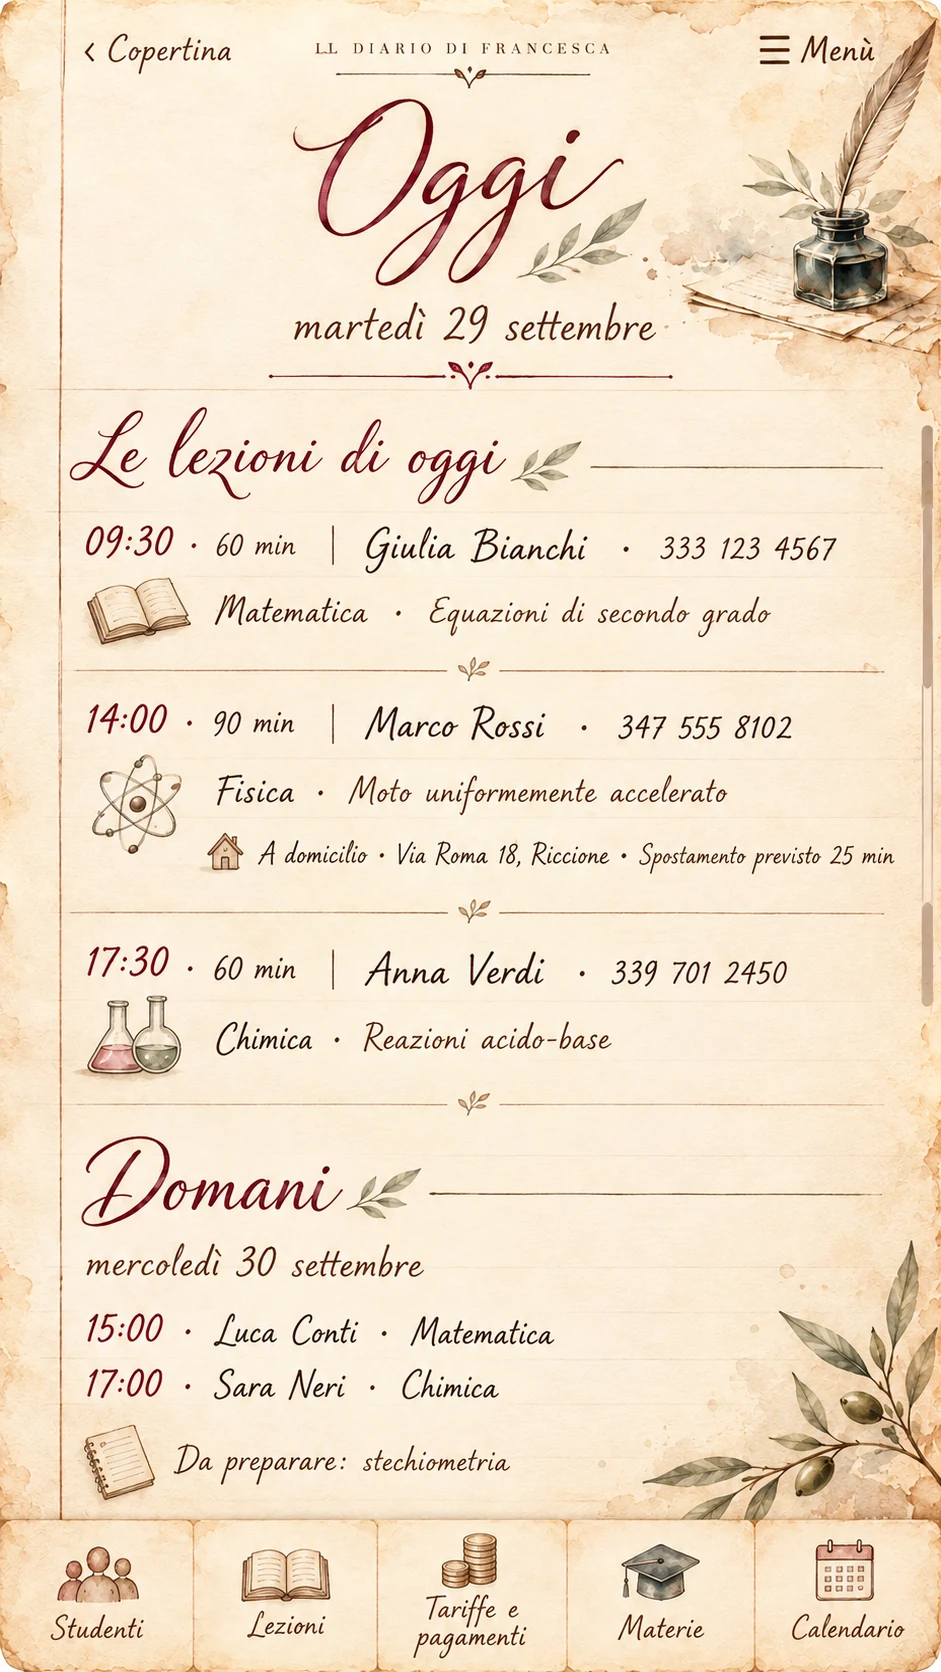
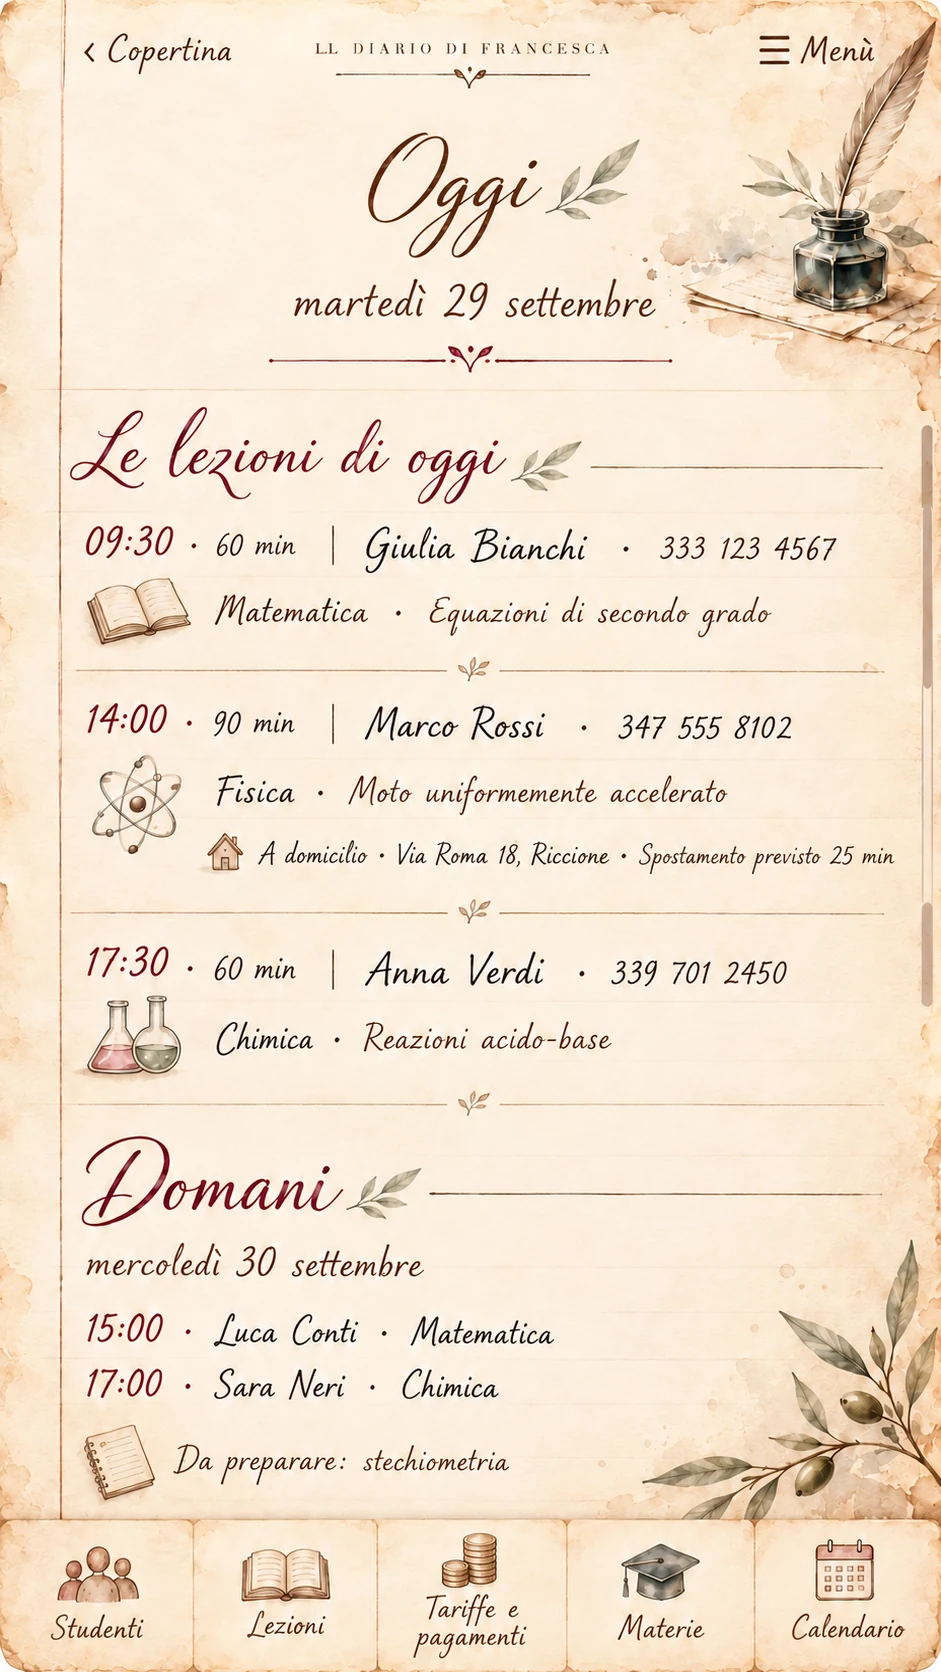
Allinea titoli e icone acquerellate di Oggi al riferimento

diff --git a/app/oggi/page.tsx b/app/oggi/page.tsx
@@ -4,6 +4,14 @@ import Image from "next/image";
 import Link from "next/link";
 import { useEffect, useState } from "react";
 import background from "../assets/today-diary-watercolor.webp";
+import todayTitle from "../assets/today-title.webp";
+import lessonsTitle from "../assets/today-lessons-title.webp";
+import tomorrowTitle from "../assets/tomorrow-title.webp";
+import studentsIcon from "../assets/today-icon-students.webp";
+import lessonsIcon from "../assets/today-icon-lessons.webp";
+import paymentsIcon from "../assets/today-icon-payments.webp";
+import subjectsIcon from "../assets/today-icon-subjects.webp";
+import calendarIcon from "../assets/today-icon-calendar.webp";
 import { addDays, toLocalDate } from "../data/calendario/calendar-dates";
 import { selectOccurrencesInRange } from "../data/calendario/calendar-selectors";
 import { loadCalendarAppointments, loadCalendarSeries } from "../data/calendario/calendar-storage";
@@ -19,16 +27,7 @@ const menu = [
   { href: "/calendario", label: "Calendario", icon: "calendar" },
 ];
 
-function DiaryIcon({ name }: { name: string }) {
-  const common = { fill: "none", stroke: "currentColor", strokeWidth: 1.5, strokeLinecap: "round" as const, strokeLinejoin: "round" as const };
-  return <svg aria-hidden="true" viewBox="0 0 48 42" className="h-7 w-8 text-[#856347]" {...common}>
-    {name === "students" && <><circle cx="24" cy="12" r="5" /><path d="M14 34c0-8 4-12 10-12s10 4 10 12M10 18a4 4 0 1 1 3-7M7 32c0-6 2-10 7-11M38 18a4 4 0 1 0-3-7M41 32c0-6-2-10-7-11" /></>}
-    {name === "lessons" && <><path d="M24 36c-6-4-12-4-19-3V8c7-1 13-1 19 3 6-4 12-4 19-3v25c-7-1-13-1-19 3ZM24 11v25M9 15c4-.5 8 0 11 2M28 17c3-2 7-2.5 11-2M9 22c4-.5 8 0 11 2M28 24c3-2 7-2.5 11-2" /></>}
-    {name === "payments" && <><ellipse cx="18" cy="11" rx="10" ry="4" /><path d="M8 11v10c0 2 4 4 10 4 2 0 4-.2 6-1M8 16c3 3 11 4 16 2M24 20v11c0 3 4 5 10 5s10-2 10-5V20" /><ellipse cx="34" cy="20" rx="10" ry="4" /><path d="M24 25c4 3 16 3 20 0" /></>}
-    {name === "subjects" && <><path d="m4 18 20-10 20 10-20 10L4 18ZM13 24v9c8 5 14 5 22 0v-9M43 19v13" /><circle cx="43" cy="34" r="2" /></>}
-    {name === "calendar" && <><rect x="6" y="9" width="36" height="29" rx="2" /><path d="M6 18h36M15 5v8M33 5v8M14 25h5M25 25h5M14 32h5M25 32h5" /></>}
-  </svg>;
-}
+const icons = { students: studentsIcon, lessons: lessonsIcon, payments: paymentsIcon, subjects: subjectsIcon, calendar: calendarIcon };
 
 function dateTitle(date: string) {
   return new Intl.DateTimeFormat("it-IT", { weekday: "long", day: "numeric", month: "long" }).format(new Date(date + "T12:00:00"));
@@ -79,7 +78,8 @@ export default function TodayPage() {
             <Link href="/menu" className="rounded-lg px-2 py-2 text-[#702f3e]">☰ Menù</Link>
           </div>
           <p className="mt-2 text-center font-entry-elegant text-xs tracking-[.12em] text-[#8a6546]">IL DIARIO DI FRANCESCA</p>
-          <h1 className="mt-2 text-center font-handwritten text-[clamp(43px,12vw,58px)] leading-tight text-[#71313b]">Oggi</h1>
+          <h1 className="sr-only">Oggi</h1>
+          <Image src={todayTitle} alt="" priority unoptimized className="mx-auto mt-1 h-auto w-[clamp(155px,42vw,190px)]" />
           <p className="text-center font-entry-elegant text-[clamp(16px,4.4vw,20px)] capitalize">{today ? dateTitle(today) : "Il diario della giornata"}</p>
           <div className="mx-auto mt-3 flex w-[75%] items-center gap-2 text-[#9b7359]" aria-hidden="true"><span className="h-px flex-1 bg-current/65" /><span className="text-xs">✦</span><span className="h-px flex-1 bg-current/65" /></div>
         </header>
@@ -87,7 +87,7 @@ export default function TodayPage() {
         <div className="min-h-0 flex-1 overflow-y-auto overscroll-contain pb-5 [scrollbar-color:#ad9471_transparent] [scrollbar-width:thin]" aria-label="Diario di oggi e domani" tabIndex={0}>
         <section aria-labelledby="today-lessons" className="mt-5">
           <div className="flex items-center justify-between gap-2">
-            <h2 id="today-lessons" className="font-entry-elegant text-[clamp(22px,6vw,27px)] text-[#71313b]">Le lezioni di oggi</h2>
+            <h2 id="today-lessons" className="min-w-0"><span className="sr-only">Le lezioni di oggi</span><Image src={lessonsTitle} alt="" unoptimized className="h-auto w-[clamp(205px,57vw,250px)]" /></h2>
             <Link href={today ? "/calendario/giorno?data=" + today : "/calendario/giorno"} className="font-entry-elegant text-sm underline underline-offset-4">Apri agenda</Link>
           </div>
           {today && todayLessons.length === 0 && <p className="py-8 font-entry-elegant text-lg text-[#765b46]">Oggi non ci sono lezioni in programma.</p>}
@@ -119,7 +119,7 @@ export default function TodayPage() {
         </section>
 
         <section aria-labelledby="tomorrow-lessons" className="mt-8 border-t border-[#a88965]/50 pt-5">
-          <h2 id="tomorrow-lessons" className="font-handwritten text-[clamp(30px,8vw,38px)] text-[#71313b]">Domani</h2>
+          <h2 id="tomorrow-lessons"><span className="sr-only">Domani</span><Image src={tomorrowTitle} alt="" unoptimized className="h-auto w-[clamp(140px,42vw,185px)]" /></h2>
           <p className="font-entry-elegant text-sm capitalize text-[#82674e]">{tomorrow ? dateTitle(tomorrow) : ""}</p>
           {tomorrow && tomorrowLessons.length === 0 && <p className="mt-3 font-entry-elegant text-base">Nessuna lezione prevista per domani.</p>}
           <ul className="mt-3 space-y-2 font-entry-elegant">
@@ -131,12 +131,12 @@ export default function TodayPage() {
           {tomorrow && <Link href={"/calendario/giorno?data=" + tomorrow} className="mt-3 inline-block text-sm text-[#71313b] underline underline-offset-4">Agenda di domani</Link>}
         </section>
 
-        </div>
-        <nav aria-label="Sezioni principali" className="shrink-0 border-t border-[#a88965]/60 bg-[#fbf1de]/95 py-1.5">
-          <div className="grid grid-cols-5 divide-x divide-[#ac9272]/45">
-            {menu.map((item) => <Link key={item.href} href={item.href} className="flex min-h-[67px] flex-col items-center justify-center gap-0.5 px-0.5 text-center font-entry-elegant text-[clamp(9px,2.5vw,12px)] leading-tight text-[#623b2e] focus-visible:outline-2 focus-visible:outline-[#71313b]"><DiaryIcon name={item.icon} />{item.label}</Link>)}
+        <nav aria-label="Sezioni principali" className="mt-8 pb-3">
+          <div className="grid grid-cols-5 gap-1">
+            {menu.map((item) => <Link key={item.href} href={item.href} className="flex min-h-[82px] flex-col items-center justify-center gap-1 px-0.5 text-center font-entry-elegant text-[clamp(11px,3vw,15px)] leading-tight text-[#623b2e] focus-visible:outline-2 focus-visible:outline-[#71313b]"><Image src={icons[item.icon as keyof typeof icons]} alt="" unoptimized className="h-10 w-11 object-contain" />{item.label}</Link>)}
           </div>
         </nav>
+        </div>
       </div>
     </div>
   </main>;

diff --git a/docs/design/oggi-implementazione.md b/docs/design/oggi-implementazione.md
@@ -1,14 +1,14 @@
 # Oggi — riferimento e criteri di implementazione
 
-Riferimento visivo scelto da Mauro: [oggi-riferimento-approvato.webp](./oggi-riferimento-approvato.webp).
+Riferimento visivo confermato da Mauro il 29 settembre: [oggi-riferimento-approvato.webp](./oggi-riferimento-approvato.webp). La grafia di «Oggi», «Le lezioni di oggi» e «Domani» e i cinque simboli illustrati sono parte della scelta.
 I nomi, gli orari e gli indirizzi nell'immagine sono esempi. La pagina di produzione usa solo dati del registro.
 
 ## Struttura
 
 - Dopo «Entra nel registro» si apre `/oggi`; il Menù resta raggiungibile in alto.
-- Titolo «Oggi» calligrafico, data e comandi in una testata fissa. Conservare la grafia della prima anteprima, con lo stesso equilibrio della famiglia di pagine dell'app.
+- Titolo «Oggi» calligrafico, data e comandi in una testata fissa. I tre titoli decorativi sono risorse trasparenti separate; data, contenuti e comandi restano HTML dinamico e accessibile.
 - Sotto la testata scorre **un unico foglio**: lezioni di oggi, poi «Domani» e le sue lezioni. «Domani» non è ancorato allo schermo e si sposta verso il basso se oggi ci sono più voci.
-- In basso restano accessibili le cinque sezioni principali: Studenti, Lezioni, Tariffe e pagamenti, Materie, Calendario. I simboli ad acquerello della tavola sono riferimento grafico: realizzarli come elementi separati dai testi e dai dati.
+- I cinque collegamenti principali — Studenti, Lezioni, Tariffe e pagamenti, Materie, Calendario — sono disegnati sul foglio dopo «Domani», senza barra con fondo o bordi separata. I simboli ad acquerello sono risorse separate dai testi e dai dati.
 - Sfondo decorativo pulito: `app/assets/today-diary-watercolor.webp`. Non inserire dati dimostrativi nello sfondo.
 
 ## Dati di una lezione
@@ -26,11 +26,11 @@ I nomi, gli orari e gli indirizzi nell'immagine sono esempi. La pagina di produz
 
 ## Stato e lavoro visivo restante
 
-La route `app/oggi/page.tsx`, la navigazione da copertina, i dati del calendario, il foglio scorrevole e il tempo di spostamento facoltativo sono già nel codice. Le lezioni sono ora rese come righe del diario e la barra inferiore ha cinque simboli SVG separati dai testi. L'anteprima non è una cattura dell'app: gli SVG hanno un tratto semplice e devono ancora essere confrontati con le illustrazioni ad acquerello; restano da rifinire tipografia, interlinea, separatori e resa dei collegamenti sul telefono.
+La route `app/oggi/page.tsx`, la navigazione da copertina, i dati del calendario, il foglio scorrevole e il tempo di spostamento facoltativo sono già nel codice. Le lezioni sono righe del diario; i titoli decorativi e le cinque icone ad acquerello sono risorse separate e i collegamenti sono integrati nel foglio. L'anteprima non è una cattura dell'app: restano da confrontare su telefono dimensioni, interlinea, separatori e posizionamento dei collegamenti.
 
 ## Verifica prima della chiusura
 
-1. Nessuna lezione, una lezione, molte lezioni: la testata e la navigazione restano visibili; «Domani» segue il contenuto di oggi.
+1. Nessuna lezione, una lezione, molte lezioni: la testata resta visibile; «Domani» e le cinque icone seguono il contenuto di oggi nello stesso foglio scorrevole.
 2. Lezione a domicilio con e senza indirizzo o durata spostamento; telefono presente e assente.
 3. Occorrenza ricorrente modificata, lezione svolta e annullata, passaggio di giorno a mezzanotte o riapertura dell'app.
 4. Su telefono: testo leggibile senza sovrapposizioni, titolo coerente con le altre pagine, icone e aree di tocco sufficienti, scroll confinato al foglio.
